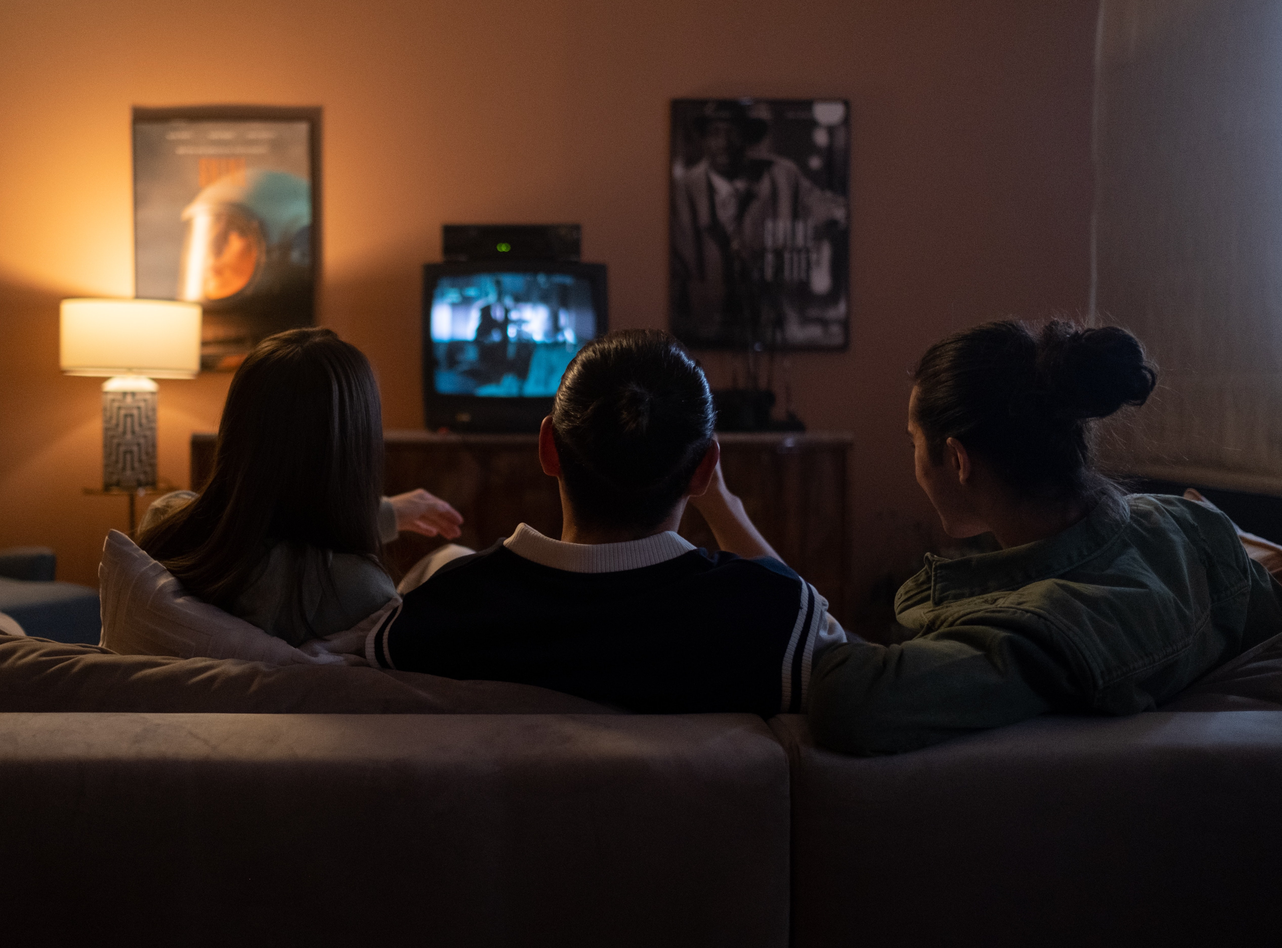
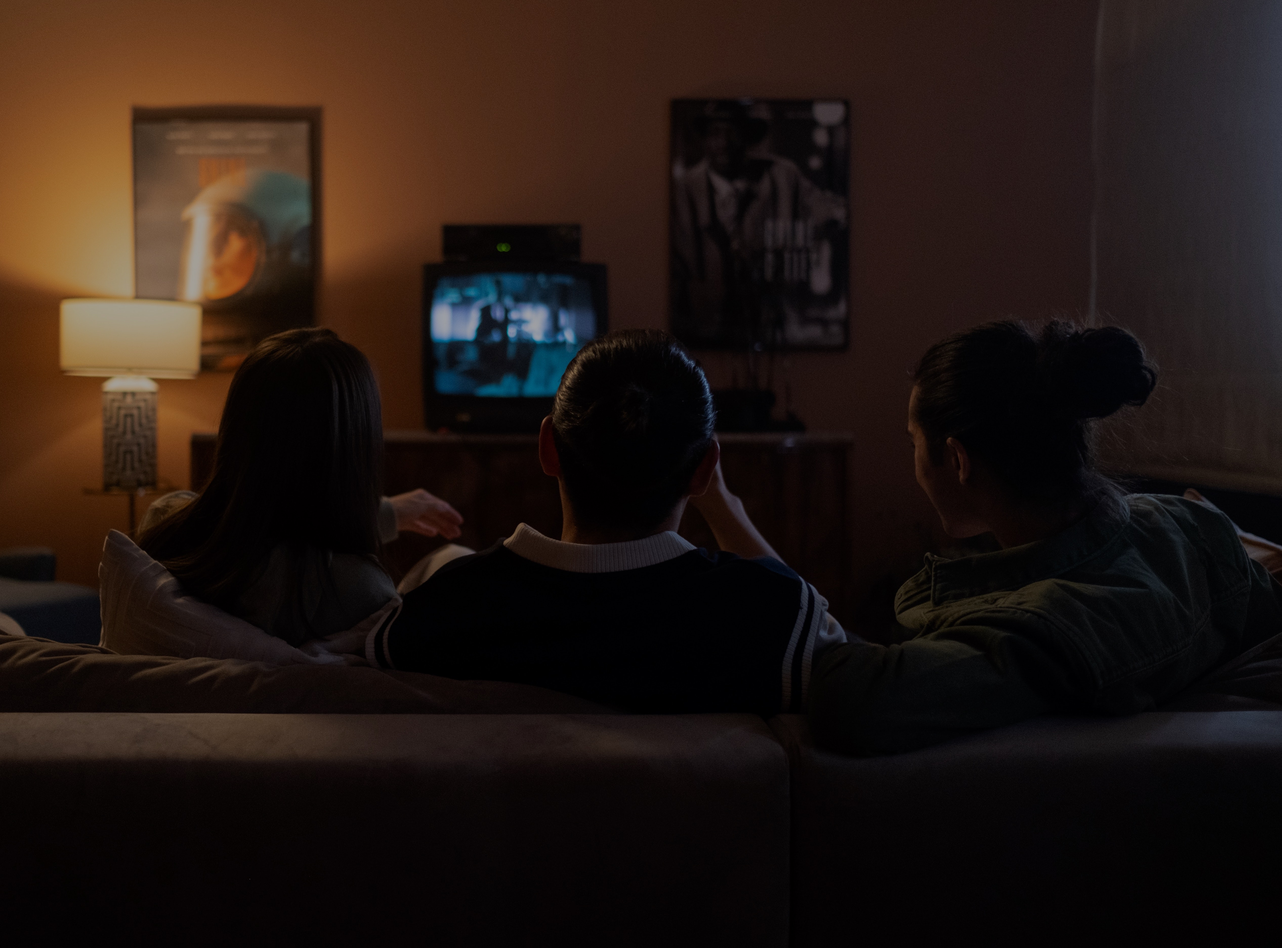
Home (desktop view) finish

diff --git a/src/css/styles.css b/src/css/styles.css
@@ -44,7 +44,7 @@ body {
 
 .fa-solid.fa-bars.fa-xl {
   position: absolute;
-  top: 2.7rem;
+  top: 2.8rem;
   left: 0.9rem
 }  
 
@@ -131,14 +131,12 @@ body {
 
 /* Home */
 .home {
-  height: 100%;
   background-image: url(/assets/images/background1.jpg);
-  background-size: 100% 100%;
-  background-position: right center;
-  backface-visibility: hidden;
+  background-size: contain;
+  background-position: center;
   aspect-ratio: auto 2792/1861;
-  padding: 0px;
-  margin: 0px;
+  padding: 0;
+  margin: 0;
   font-size: 20px;
   text-align: center;
   align-items: center;
@@ -148,38 +146,42 @@ body {
 
 .home img {
 height: auto;
-width: 600px;
+width: 700px;
 margin-bottom: 0;
-margin-top: 1rem;
+margin-top: 3rem;
 align-self: flex-start;
 padding: 1rem;
-filter: brightness(70%);
+filter: brightness(90%);
 padding: 1rem;
 max-width: 100%;
 z-index: 1; 
-margin-left: 1rem; 
+margin-left: 3rem; 
 justify-content: center;
 }
 
 .home p {
-  margin: 1rem;
-  margin-right: 55%;
+  margin-left: 1rem;
+  margin-right: 45%;
   padding: 1rem;
   filter: drop-shadow(black);
   z-index: 1;  
-  max-width: 400px;
+  max-width: 500px;
+  font-size: 25px;
 }
 
+
 .home button {
-  width: 160px;
-  height: 50px;
+  width: 210px;
+  height: 55px;
   text-align: center;
-  margin-right: 55%;
-  font-size: 22px;
+  margin-left: 1rem;
+  margin-right: 45%;
+  margin-top: 2rem;
+  font-size: 30px;
   border-radius: 10px;
   background-color: black;
   color: #FFFFFF;
-  border: 5px black;
+  border: 5px solid black;
   z-index: 1;  
   transition: background-color 0.3s;
 }
@@ -222,17 +224,18 @@ justify-content: center;
     padding: 1rem;
     filter: drop-shadow(black);
     z-index: 1;  
-    width: 350px;
+    width: 500px;
     font-size: 20px;
     justify-content: center;
   }
 
   .home button {
-    width: 160px;
-    height: 50px;
+    width: 210px;
+    height: 55px;
     text-align: center;
-    margin-right: 55%;
-    font-size: 22px;
+    margin-right: 45%;
+    margin-top: 2rem;
+    font-size: 30px;
     border-radius: 10px;
     background-color: black;
     color: #FFFFFF;
@@ -266,7 +269,7 @@ justify-content: center;
 @media (min-width: 600px) {
 .steps {
   background-image: url("/assets/images/background2.jpg");
-  background-size: cover;
+  background-size: 100%;
   background-position: center; 
   background-repeat: no-repeat;
   padding: 0;
@@ -301,7 +304,7 @@ justify-content: center;
   width: 70px;
   height: 70px;
   font-size: 40px;
-  border: 0.5px solid black;
+  border: 2px solid black;
   border-radius: 25%;
   box-shadow: 5px 5px 10px;
   filter: drop-shadow(black);
@@ -321,7 +324,7 @@ justify-content: center;
 
 .searchfield {
   background-color: #FFFFFF;
-  opacity: 45%;
+  opacity: 55%;
   margin: 20px;
   width: 750px;
   height: 40px;

diff --git a/index.html b/index.html
@@ -19,7 +19,7 @@
             <nav>
                 <ul>
                     <i class="fa-solid fa-bars fa-xl" style="color: #ffffff;" alt="Menu bar icon"></i>
-                    <a href="index.html"><img class="SELogoBar" src="assets/images/SquareEyes_Logo.png" alt="Square Eyes Logo"></a>
+                    <a href="index.html"><img class="SELogoBar" src="assets/images/SquareEyes_Logo-crop.png" alt="Square Eyes Logo"></a>
                 </ul>
             </nav>
         </div>       
@@ -35,7 +35,7 @@
     </div>
 
     <div class="home">
-        <img class="SELogoHome" src="assets/images/SquareEyes_Logo.png" alt="Square Eyes Logo">
+            <img class="SELogoHome" src="assets/images/SquareEyes_Logo-crop.png" alt="Square Eyes Logo">
             <p class="home-text">Watch high-quality movies directly from the people who make them without a subscription!</p>
             <button class="watch online"><a href="listofmovies.html">Watch Online</a></button>
     </div>    
